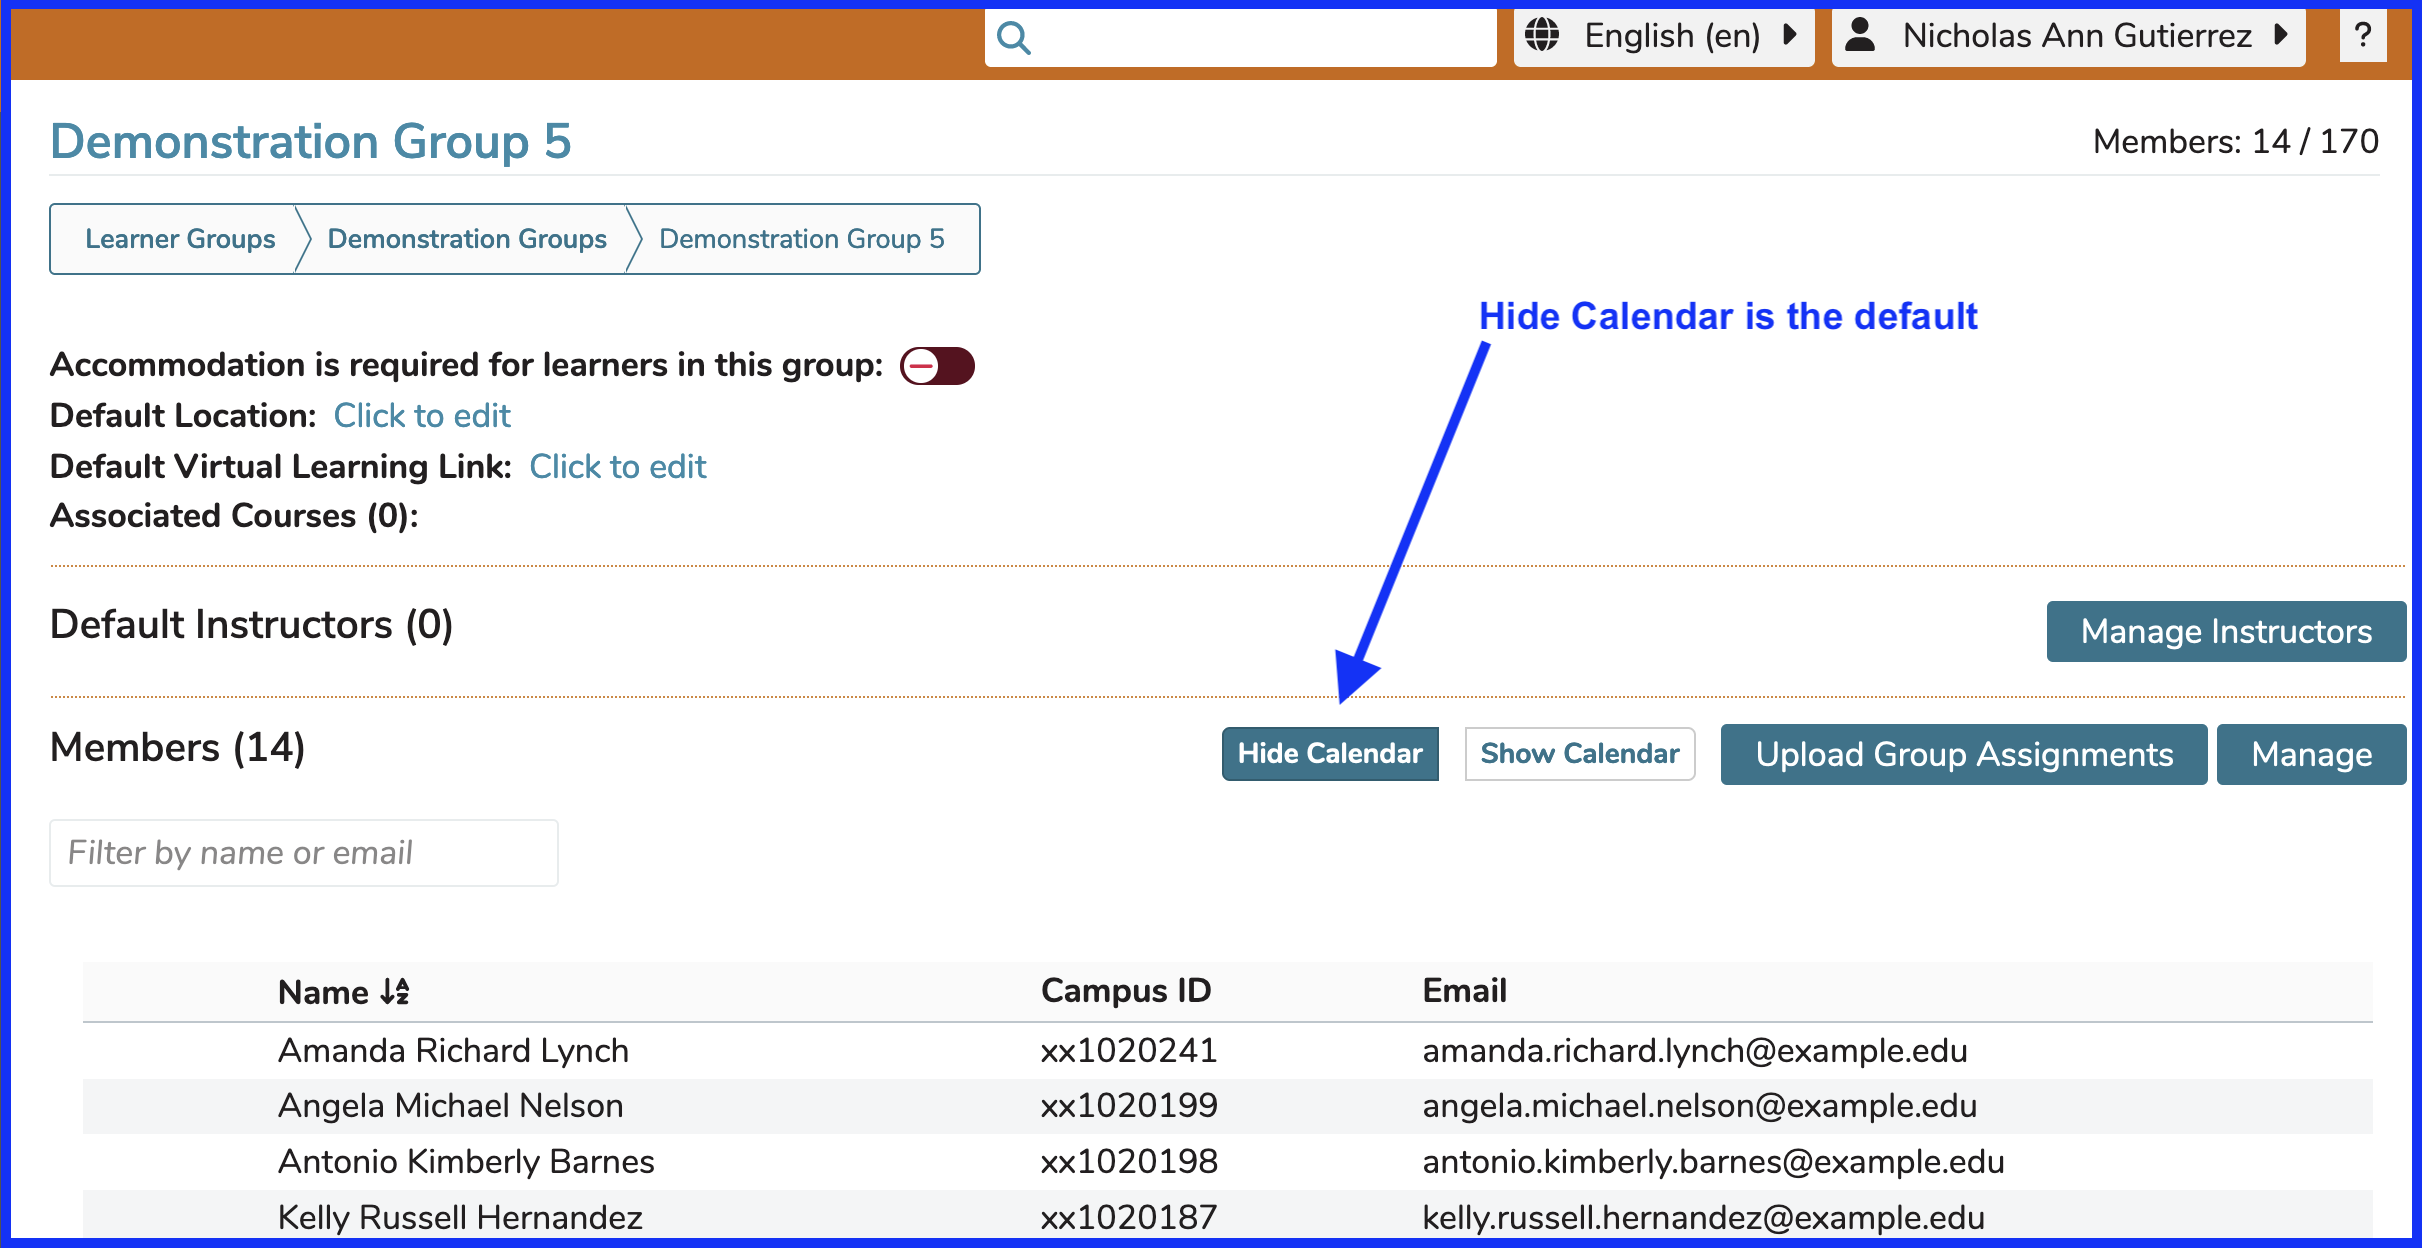
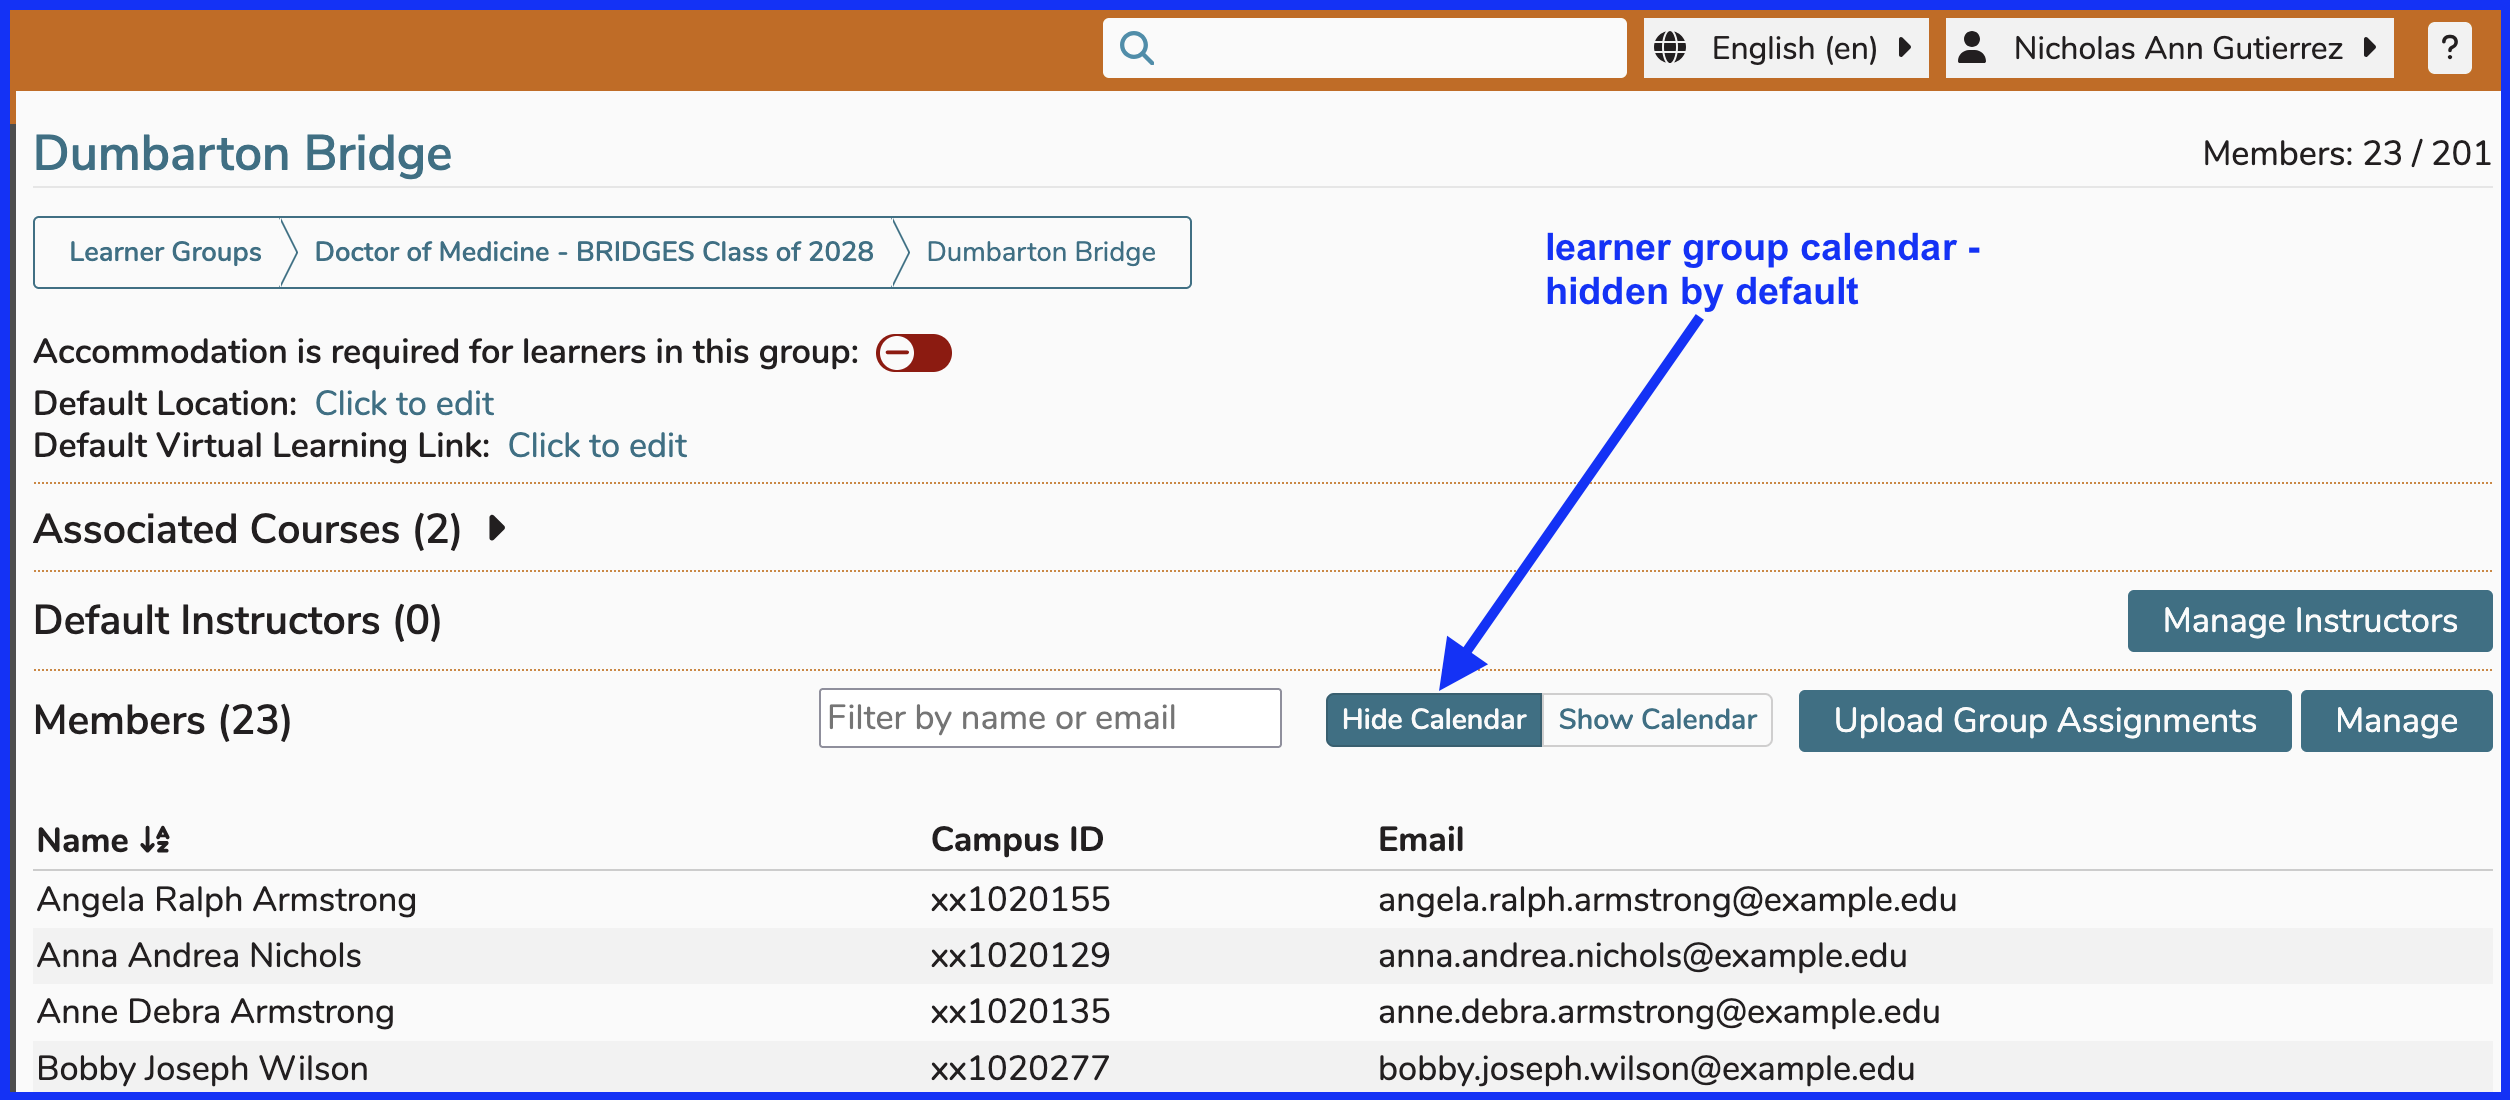
bit of text updated and image replaced

diff --git a/learner-groups/calendar.md b/learner-groups/calendar.md
@@ -1,8 +1,8 @@
 # Learner Group Calendar
 
-Below is an updated screen shot of a Learner Group in Ilios. It is easy to display all of the offerings for any selected Learner Group (with options to display sub groups). Initially, as shown below, "Hide Calendar" is selected. Even before setting the option to display the Calendar, it is easy to review Courses that are using this Learner Group in session offerings. The "**Associated Courses:**" field provides a quick review of that information.
+Below is an updated screen shot of a Learner Group in Ilios. It is easy to display all of the offerings for any selected Learner Group (with options to display sub groups). Initially, as shown below, "Hide Calendar" is selected. Even before setting the option to display the Calendar, it is easy to review Courses that are using this Learner Group in session offerings. The "**Associated Courses:**" field provides an expandable list of all courses (and sessions) with links provided to access and review this learner group's attachment and usage to offerings and ILM's.
 
-![Hide calendar is default](../images/learner_group_calendar/hide_calendar_default.png)
+![hide calendar is default](../images/learner_group_calendar/hide_calendar_default.png)
 
 In the screen shot below, the "Show Calendar" option has been selected and all of the Offerings to which this Learner Group is attached are shown in the Calendar. The toggle provided to show events for all subgroups can be set in the "Yes" position by clicking on it to slide it. This would display offerings for any learner groups subsidiary to the current group in addition to showning all offerings for the current group.
 
